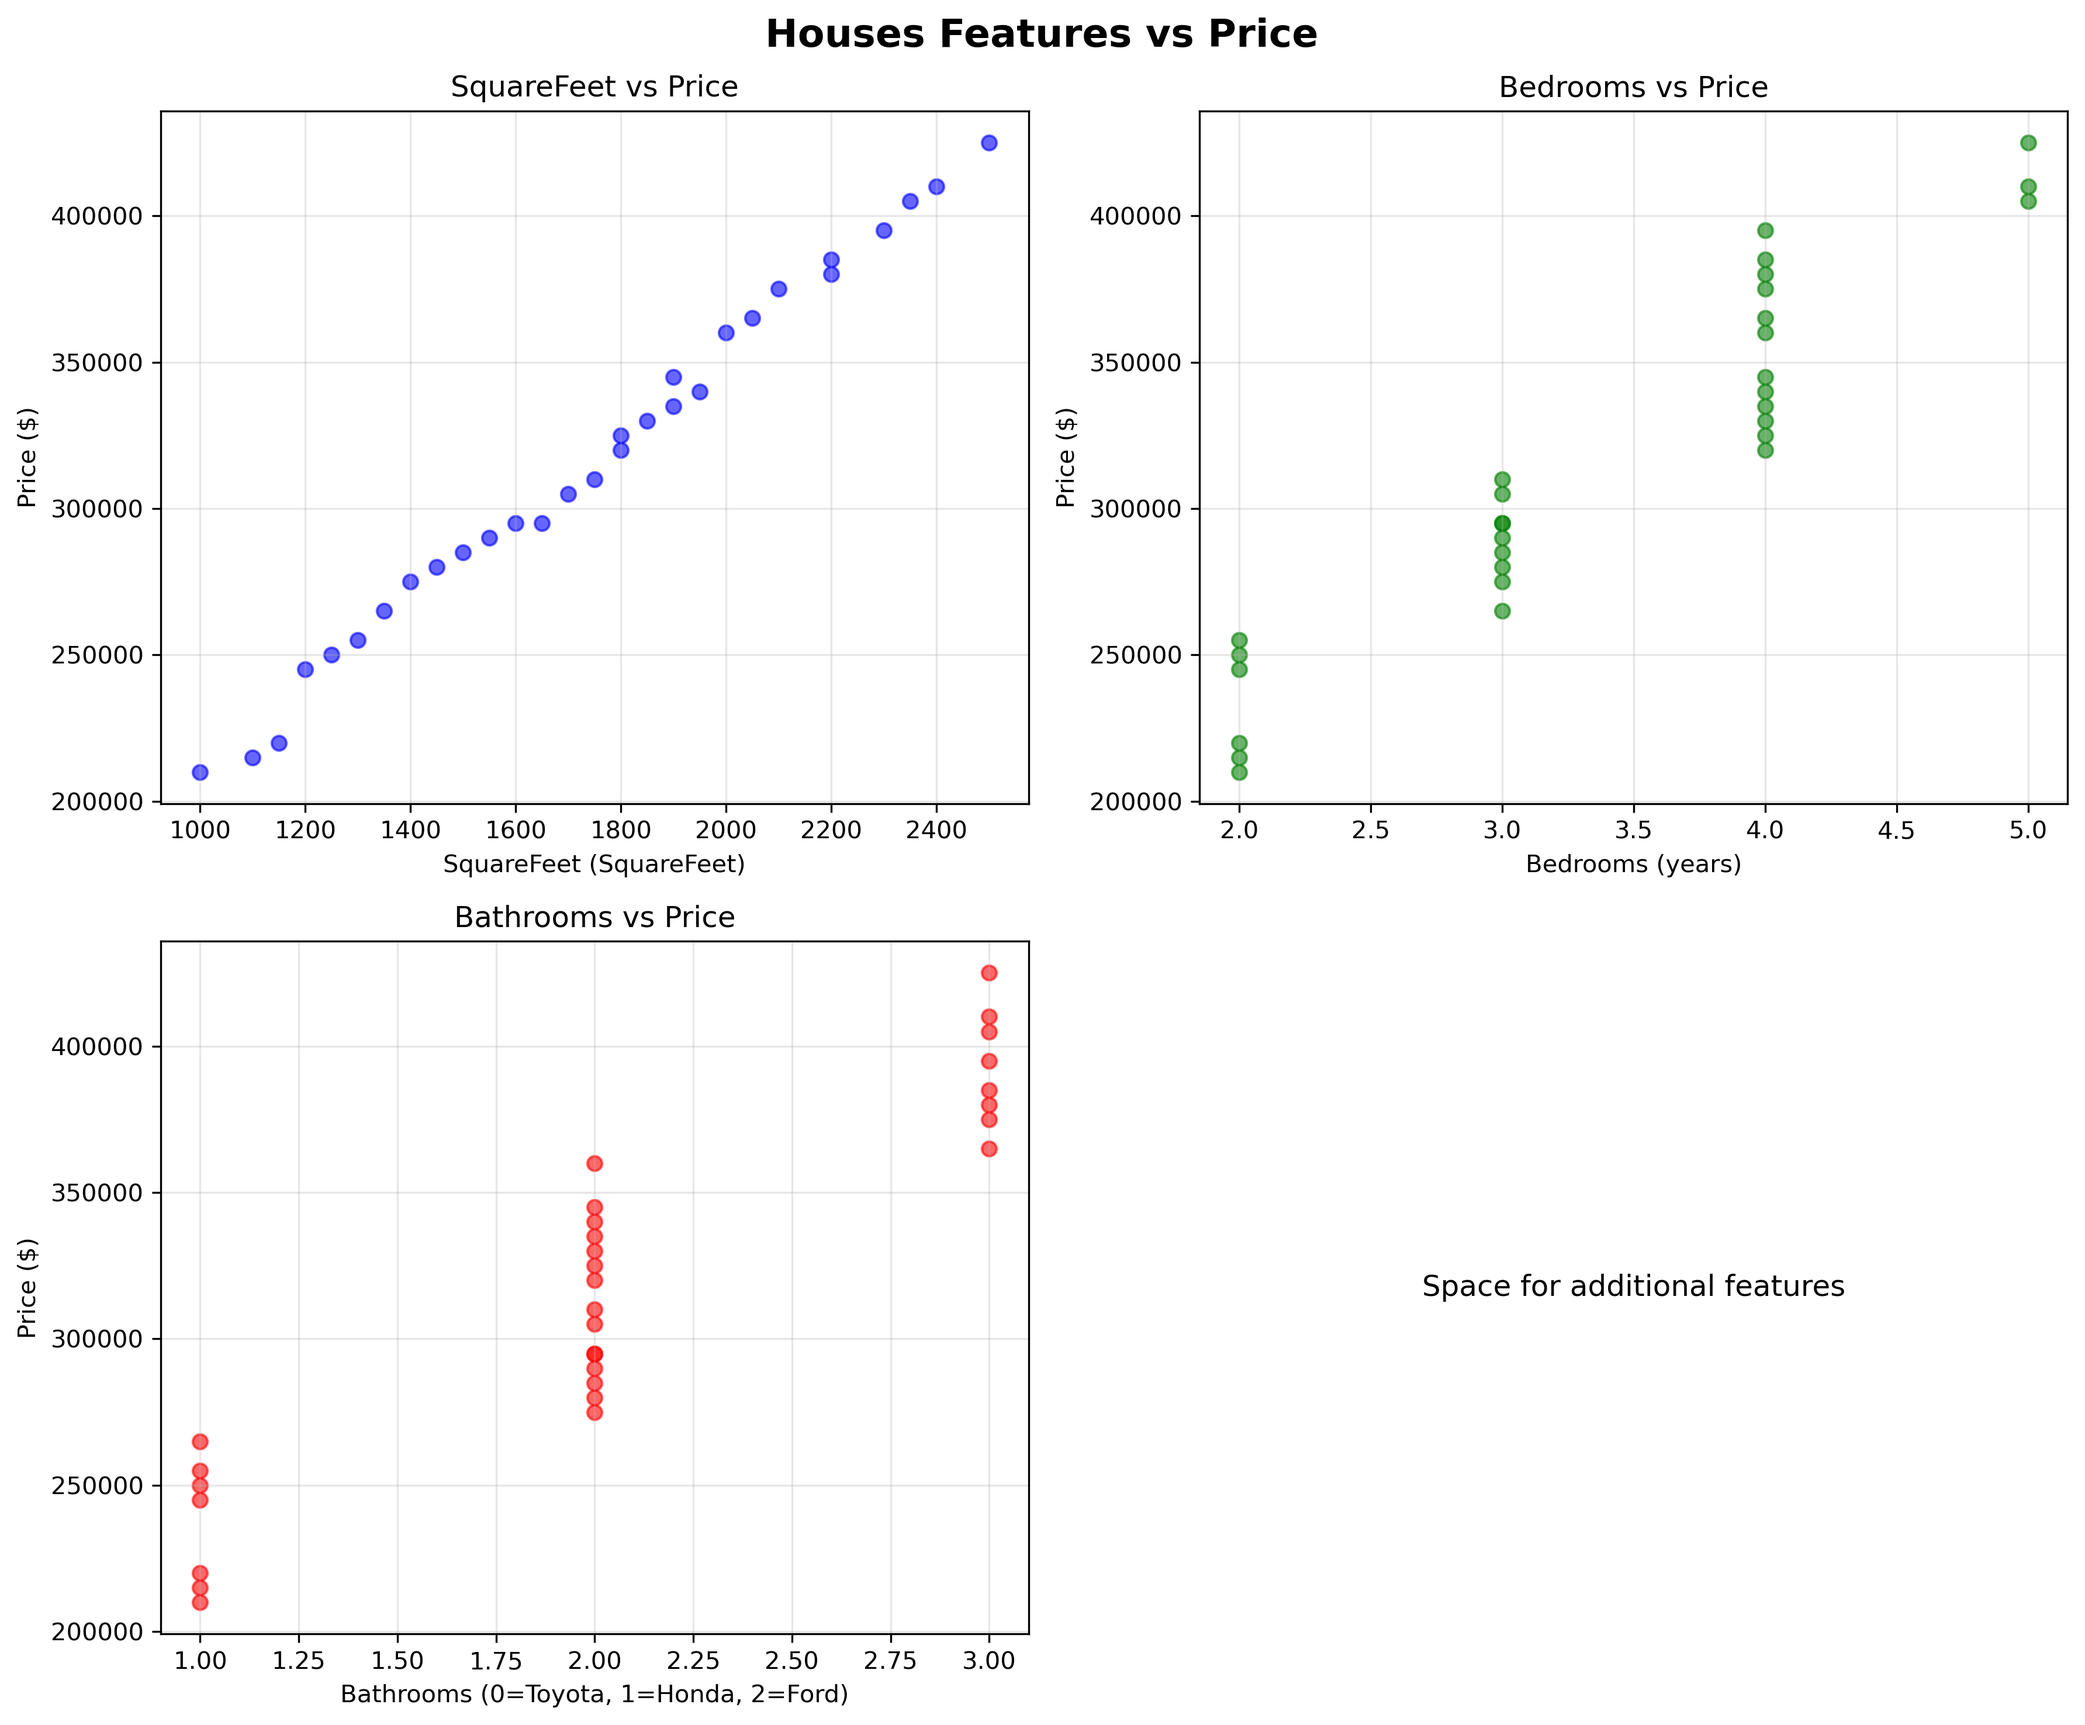
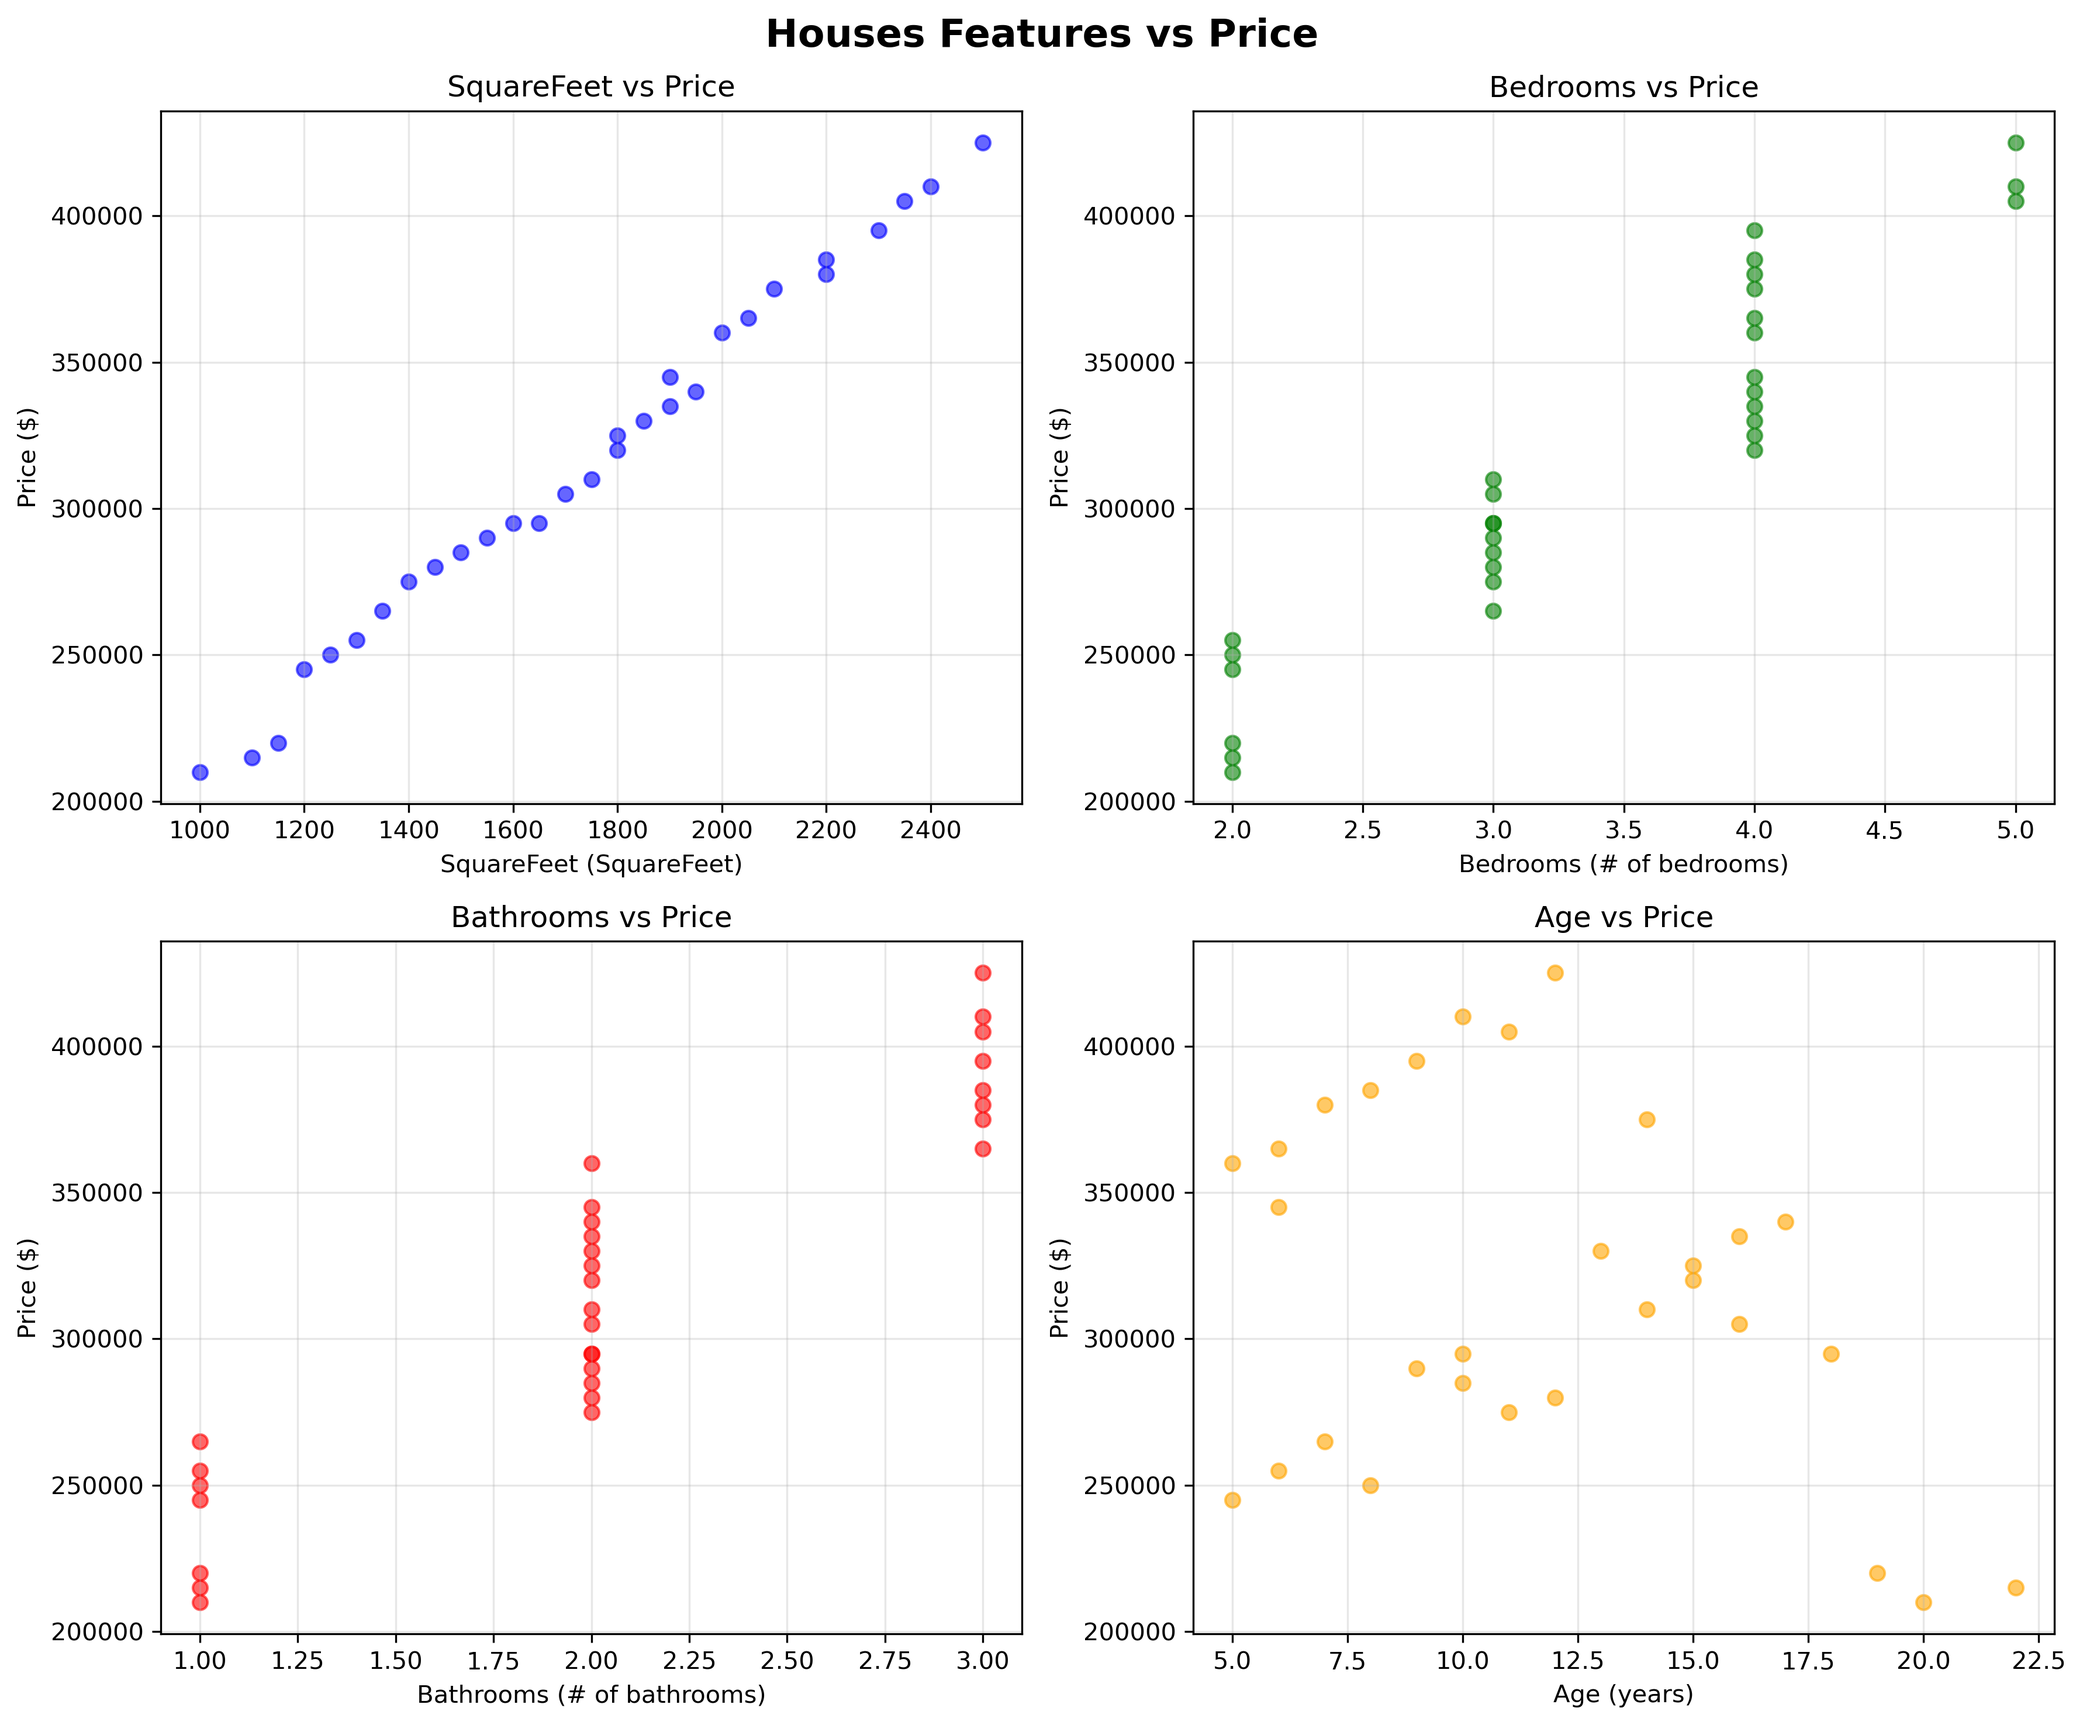
fnished

diff --git a/a6_part2.py b/a6_part2.py
@@ -67,7 +67,7 @@ def visualize_features(data):
     #       - labels and title
     #       - grid
     axes[0, 1].scatter(data['Bedrooms'], data['Price'], color='green', alpha=0.6)
-    axes[0, 1].set_xlabel('Bedrooms (years)')
+    axes[0, 1].set_xlabel('Bedrooms (# of bedrooms)')
     axes[0, 1].set_ylabel('Price ($)')
     axes[0, 1].set_title('Bedrooms vs Price')
     axes[0, 1].grid(True, alpha=0.3)
@@ -76,7 +76,7 @@ def visualize_features(data):
     #       - labels and title
     #       - grid
     axes[1, 0].scatter(data['Bathrooms'], data['Price'], color='red', alpha=0.6)
-    axes[1, 0].set_xlabel('Bathrooms (0=Toyota, 1=Honda, 2=Ford)')
+    axes[1, 0].set_xlabel('Bathrooms (# of bathrooms)')
     axes[1, 0].set_ylabel('Price ($)')
     axes[1, 0].set_title('Bathrooms vs Price')
     axes[1, 0].grid(True, alpha=0.3)
@@ -85,9 +85,16 @@ def visualize_features(data):
     #       - scatter plot, color='orange', alpha=0.6
     #       - labels and title
     #       - grid
-    axes[1, 1].text(0.5, 0.5, 'Space for additional features', 
-                    ha='center', va='center', fontsize=12)
-    axes[1, 1].axis('off')
+    axes[1, 1].scatter(data['Age'], data['Price'], color='orange', alpha=0.6)
+    axes[1, 1].set_xlabel('Age (years)')
+    axes[1, 1].set_ylabel('Price ($)')
+    axes[1, 1].set_title('Age vs Price')
+    axes[1, 1].grid(True, alpha=0.3)
+
+
+
+
+
     
     
     # TODO: Use plt.tight_layout() to make plots fit nicely
@@ -275,7 +282,7 @@ def make_prediction(model, sqft, bedrooms, bathrooms, age):
                                  columns=['SquareFeet', 'Bedrooms', 'Bathrooms','Age'])
     predicted_price = model.predict(car_features)[0]
     # TODO: Make a prediction using model.predict()
-    brand_name = ['Toyota', 'Honda', 'Ford'][bedrooms]
+    bedrooms = ['3'][bedrooms]
     # TODO: Print the house specs and predicted price nicely formatted
     print(f"\n=== New Prediction ===")
     print(f"House Features: {'Squarefeet':.0f}k sqft, {age} years old, {bedrooms}")

diff --git a/a6_part2_writeup.md b/a6_part2_writeup.md
@@ -7,13 +7,13 @@
 Based on your house price model, rank the four features from most important to least important. Explain how you determined this ranking.
 
 **YOUR ANSWER:**
-1. Most Important: 
-2. 
-3. 
-4. Least Important: 
+1. Most Important:  Bedrooms
+2. Bathrooms
+3. Age
+4. Least Important: Squarefeet
 
 **Explanation:**
-
+I ranked these four feature from most important to least important according to the statistics that the copmuter gave me. Bedrooms had the most points near $400,000 which shows how much people are willing to pay for the number of bathrooms which shows a great importance. Squarefeet only had like 3 points that were $400,000 which was the least amount of points near $400,000 compared to the other graphs.
 
 
 
@@ -24,10 +24,10 @@ Based on your house price model, rank the four features from most important to l
 Choose TWO features from your model and explain what their coefficients mean in plain English. For example: "Each additional bedroom increases the price by $___"
 
 **Feature 1:**
-
+For squarefeet, it showed that every 1000 squarefeet the prices increase by about $12,500. So it showed that the amount of squarefeet didn't really change the prices that awful lot. It is more of a steady increase which shows that it goes up little by little. Compared to bathrooms, square feet is relaively cheap and does not cost much. 
 
 **Feature 2:**
-
+For bathrooms, it shows that every bathroom increased the price by about $80,000. Which is far more then squarefeet which shows more significance. It tells us that bathrooms cost a lot more money than square feet probably due to all the plumbing and pipes.
 
 ---
 
@@ -36,7 +36,7 @@ Choose TWO features from your model and explain what their coefficients mean in 
 What was your model's R² score? What does this tell you about how well your model predicts house prices? Is there room for improvement?
 
 **YOUR ANSWER:**
-
+My Root Mean Squared Error was $4477.89. It tells us that the model is pretty accurated when predicting house prices because  considering that we are working in the $200,000-$400,000 which are really big numbers. There is definitely room for improvement because ai is getting really advanced where they could predict that exact value which is pretty exciting. 
 
 
 
@@ -47,15 +47,16 @@ What was your model's R² score? What does this tell you about how well your mod
 If you could add TWO more features to improve your house price predictions, what would they be and why?
 
 **Feature 1:**
-
+Type of floor
 
 **Why it would help:**
-
+I think it would act like another bathroom graph which could provide more important and relevant information which could possibly make the house price predictions a little bit more accurate. Also, it's a very common and important feature of the house price. I think it would give more prices so it could have more accurate and specific answers.
 
 **Feature 2:**
-
+Color of the house (interior and exterior)
 
 **Why it would help:**
+I think it would be like the same thing as type of floor. It would provide important and relevant information which could help narrow down the house price predictions. Also, there are two parts of the feature which could provide more prices. 
 
 
 ---
@@ -65,5 +66,5 @@ If you could add TWO more features to improve your house price predictions, what
 Would you trust this model to predict the price of a house with 6 bedrooms, 4 bathrooms, 3000 sq ft, and 5 years old? Why or why not? (Hint: Think about the range of your training data)
 
 **YOUR ANSWER:**
-
+I would trust this model to predict the price of a house with 6 bedrooms, 4 bathrooms, 3000 sq ft, and 5 years old because the model follows a trend of steadily increasing little by little when the variable is increases. For example, square feet follows a steady growth depending on how many square feet. I would imagine that the model would just extend to $450,000 while following the trend/growth from the previous information. For bathroom, I would just imagine a set of prices that cost about $50,000 more than 3 bathrooms because it follows an steady increase.
 
